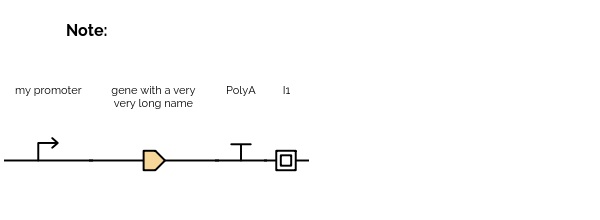
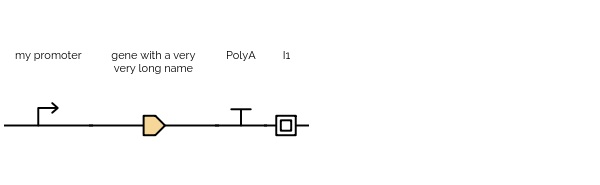
Remove "Note:" when there is no note.

diff --git a/caravagene/template.html b/caravagene/template.html
@@ -2,7 +2,9 @@
 <html lang="en">
   <body>
     <h1> {{ title }} </h1>
-    <p class='note'><b>Note: </b>{{ note }}</p>
+    {% if note != '' %}
+      <p class='note'><b>Note: </b>{{ note }}</p>
+    {% endif %}
     {% for construct in constructs %}
     <div class='construct'>
       <h3>{{ construct.name }}</h3>
